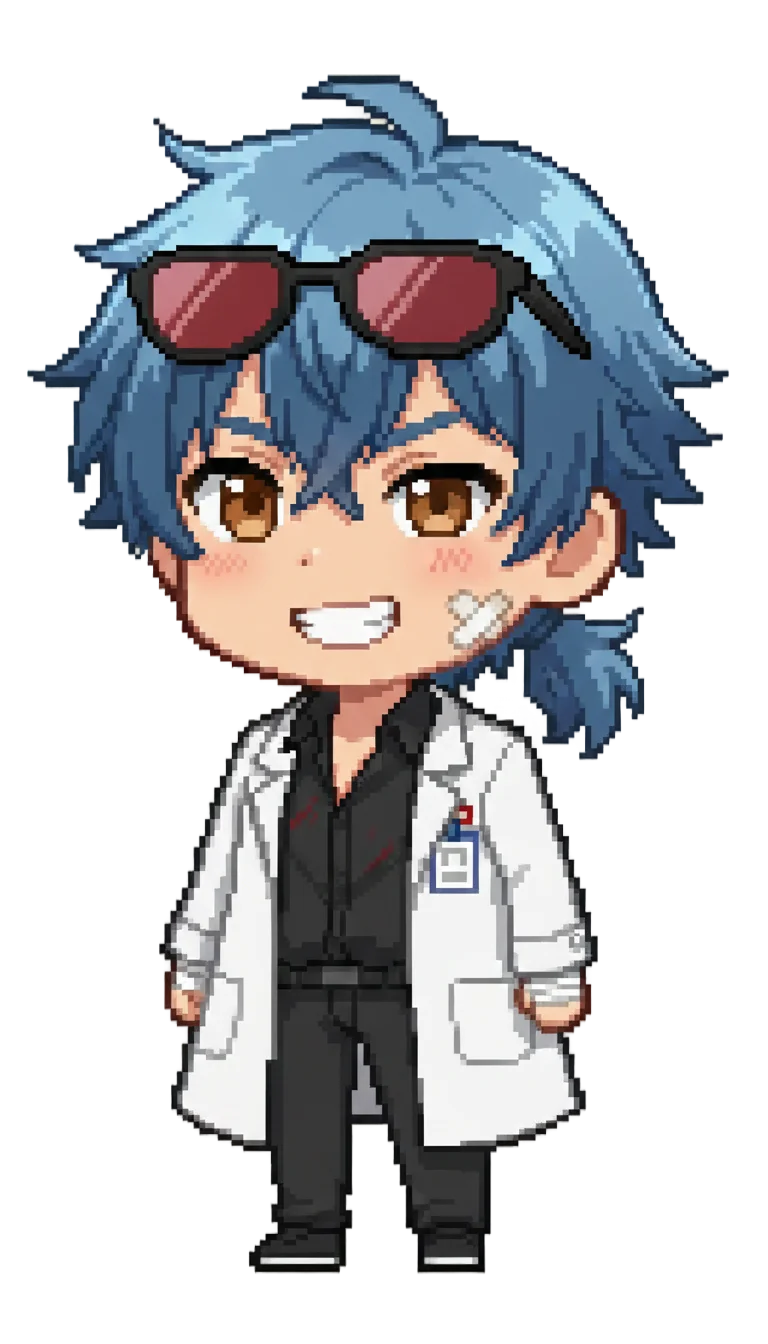
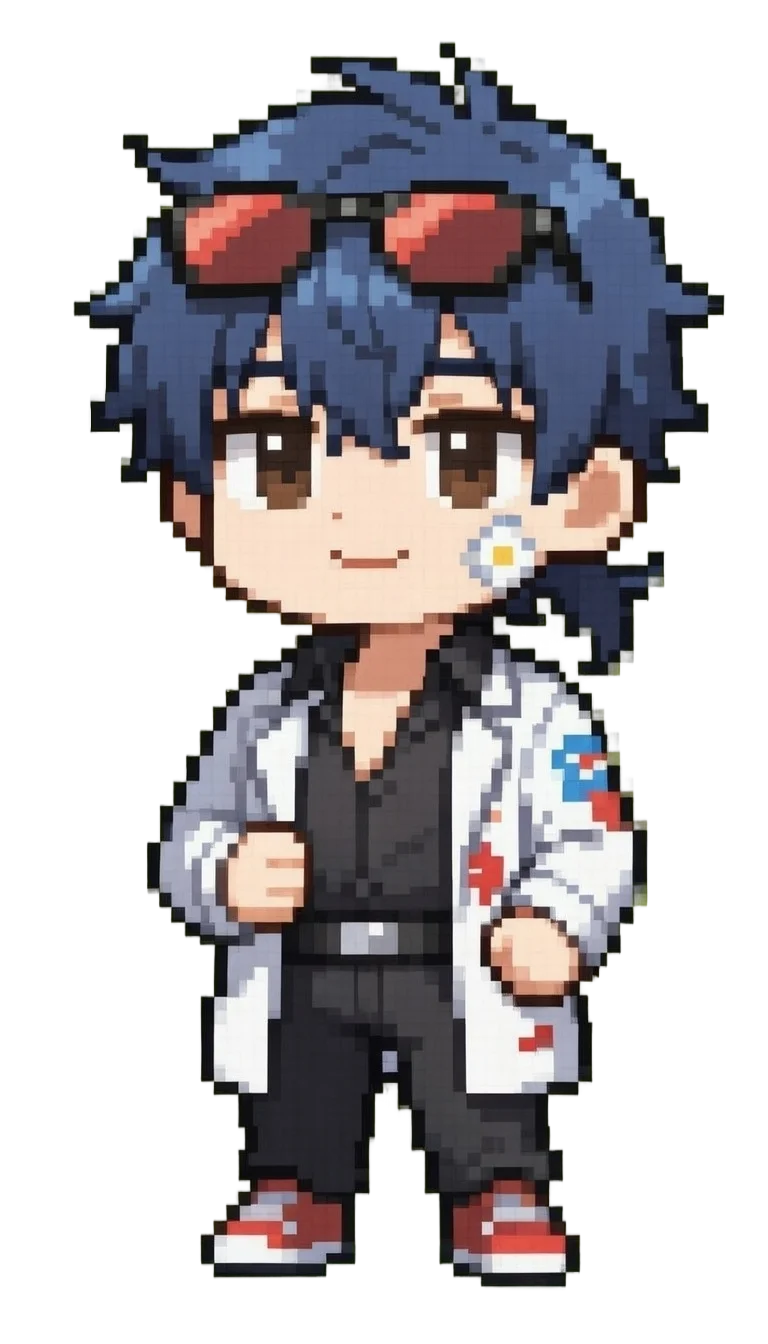
feat: 레거시 픽셀 스프라이트 연결 및 players PNG→WebP 일괄 변환
- character.ts: legacy imageKey/imagePath를 픽셀 스프라이트로 수정
- GameScene: CHARS_WITH_SPRITES에 legacy 추가
- players/ 디렉토리 PNG 21개 → WebP 변환 후 원본 삭제

Entire-Checkpoint: 4237e89ee488

diff --git a/src/scenes/GameScene.ts b/src/scenes/GameScene.ts
@@ -130,7 +130,7 @@ export default class GameScene extends Phaser.Scene {
       }
 
       // Player assets for Classic mode
-      const CHARS_WITH_SPRITES = ['miner', 'maehwa', 'hacker', 'archieve', 'glitch', 'noise', 'sentinel', 'log', 'swap', 'sum', 'fork', 'seed', 'session', 'branch', 'hook', 'socket', 'index'];
+      const CHARS_WITH_SPRITES = ['miner', 'maehwa', 'hacker', 'archieve', 'glitch', 'noise', 'sentinel', 'legacy', 'log', 'swap', 'sum', 'fork', 'seed', 'session', 'branch', 'hook', 'socket', 'index'];
       if (CHARS_WITH_SPRITES.includes(this.selectedCharId)) {
         const p = `${this.selectedCharId}_`;
         if (!this.textures.exists(`${p}front`)) this.load.image(`${p}front`, `assets/players/${p}front.webp`);
@@ -251,7 +251,7 @@ export default class GameScene extends Phaser.Scene {
     this.physics.world.setBounds(15, 0, 370, 600);
 
     // 플레이어 생성 (난이도별 속도 적용, 게임 모드별 스프라이트)
-    const CHARS_WITH_SPRITES = ['miner', 'maehwa', 'hacker', 'archieve', 'glitch', 'noise', 'sentinel', 'log', 'swap', 'sum', 'fork', 'seed', 'session', 'branch', 'hook', 'socket', 'index'];
+    const CHARS_WITH_SPRITES = ['miner', 'maehwa', 'hacker', 'archieve', 'glitch', 'noise', 'sentinel', 'legacy', 'log', 'swap', 'sum', 'fork', 'seed', 'session', 'branch', 'hook', 'socket', 'index'];
     let playerTexturePrefix = '';
     if (this.gameMode === GameMode.ITEM) {
       playerTexturePrefix = 'astronaut_';

diff --git a/src/utils/character.ts b/src/utils/character.ts
@@ -253,8 +253,8 @@ export const CHARACTERS: CharacterDef[] = [
     name: '레거시',
     grade: 'UR',
     gradeColor: '#ffaa00',
-    imageKey: 'illust_legacy',
-    imagePath: 'assets/illustrations/legacy.png',
+    imageKey: 'legacy_front',
+    imagePath: 'assets/players/legacy_front.webp',
     illustKey: 'illust_legacy',
     illustPath: 'assets/illustrations/legacy.png',
     videoKey: 'vid_legacy',
